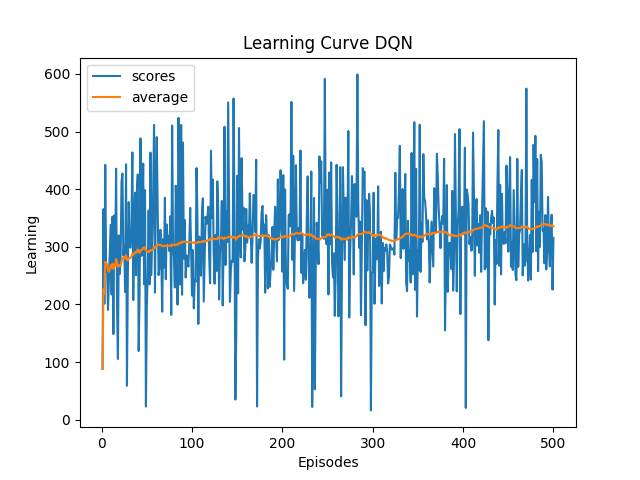
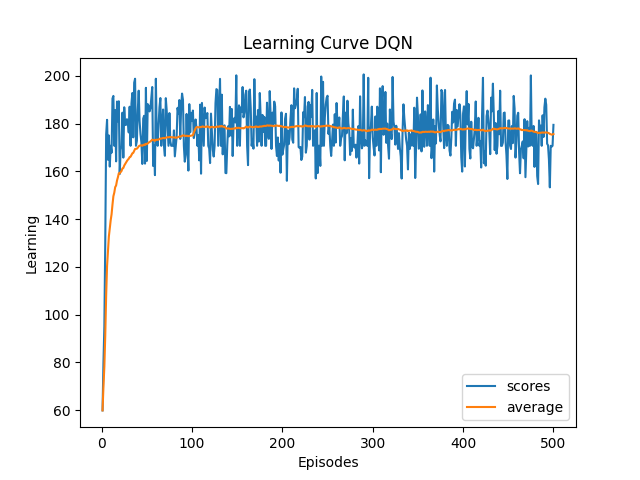
upgraded Agent with experience replay; scaled rewards and state through min-max normalisation

diff --git a/agent.py b/agent.py
@@ -4,8 +4,10 @@ import torch.nn.functional as F
 import torch.optim as optim
 import torch as T
 import numpy as np
-import environment
 import matplotlib.pyplot as plt
+
+import environment
+import random
 
 np.set_printoptions(precision=8, suppress=True)
 
@@ -15,20 +17,25 @@ N_ACTIONS = 3
 INPUT_DIMS = 6
 EPSILON = 1.00
 GAMMA = 0.09
-DECAY = 0.03
+DECAY = 0.001
 EPS_MIN = 0.01
+BUFFER_SIZE = 200
+BATCH_SIZE = 64
 
 """
 TODOs:
 - Agent Evaluation
--- Average over Multiple Episodes
+-- Average over Multiple Episodes 
+- Draw-Model Matrix Dimensions (exp. GPT Output) [DONE]
 
 - Store Agent Model
 - Scale state, reward, target values to work with Network
 - Implement Sigmoid Activation
 - Implement Experience Replay
+- Argparse to parameterize training and eval.
  
 """
+
 class DQN(nn.Module):
     def __init__(self, lr=LEARNING_RATE, n_actions=N_ACTIONS, input_dims=INPUT_DIMS):
         super(DQN, self).__init__()
@@ -49,6 +56,31 @@ class DQN(nn.Module):
 
         return actions
 
+# TODO: Consider 'game-over' state
+class ReplayBuffer:
+    def __init__(self, buffer_size=100):
+        self.buffer = []
+        self.buffer_size = buffer_size
+
+    def add(self, transition):
+        experience = transition
+        # MANAGE BUFFER AS A QUEUE FIFO
+        if len(self.buffer) >= self.buffer_size:
+            self.buffer.pop(0)
+
+        self.buffer.append(experience)
+    def sample(self, batch_size=64):
+        sampled_experiences = random.sample(self.buffer, batch_size)
+        states, actions, rewards, states_ = [], [], [], []
+
+        for exp in sampled_experiences:
+            state, action, reward, state_ = exp
+            states.append(state)
+            actions.append(action)
+            rewards.append(reward)
+            states_.append(state)
+
+        return states, actions, rewards, states_
 class Agent():
     def __init__(self,
                  input_dims=INPUT_DIMS,
@@ -57,11 +89,18 @@ class Agent():
                  gamma=GAMMA,
                  epsilon=EPSILON,
                  eps_dec=DECAY,
-                 eps_min=EPS_MIN):
+                 eps_min=EPS_MIN,
+                 buffer_size=BUFFER_SIZE,
+                 batch_size=BATCH_SIZE):
 
         self.lr = lr
         self.input_dims = input_dims
         self.n_actions = n_actions
+
+        self.buffer_size = buffer_size
+        self.batch_size = batch_size
+        self.exp_replay = ReplayBuffer(buffer_size=self.buffer_size)
+
         self.gamma = gamma
         self.epsilon = epsilon
         self.eps_dec = eps_dec
@@ -72,12 +111,13 @@ class Agent():
 
     def choose_action(self, observation):
         if np.random.random() > self.epsilon:
+            # EXPLORE
             state = T.tensor(observation, dtype=T.float).to(self.Q.device)
             actions = self.Q.forward(state)
             action = T.argmax(actions)
 
-
         else:
+            # EXPLOIT
             action = np.random.choice(self.action_space)
 
         return action
@@ -85,18 +125,21 @@ class Agent():
     def decrement_epsilon(self):
         self.epsilon = self.epsilon - self.eps_dec if self.epsilon > self.eps_min else self.eps_min
 
-    def learn(self, state, action, reward, state_):
-        # TODO (?) Clear Optimizer
+    def learn(self):
+        if len(self.exp_replay.buffer) < self.batch_size:
+            return
+
+        state, action, reward, state_ = self.exp_replay.sample(self.batch_size)
+
         self.Q.optimizer.zero_grad()
 
         states = T.tensor(state, dtype=T.float).to(self.Q.device)
-        actions = T.tensor(action).to(self.Q.device)
+        actions_taken = T.tensor(action).to(self.Q.device)
         rewards = T.tensor(reward).to(self.Q.device)
         states_ = T.tensor(state_, dtype=T.float).to(self.Q.device)
 
-        # NOTE: Absolute Q-Values, not Actions. Thus, no Argmax.
-        # TODO (?) [actions] controls correct batch size and shape
-        q_pred = self.Q.forward(states)[actions]
+        actions_tensor = T.tensor(actions_taken, dtype=T.long).to(self.Q.device)
+        q_pred = self.Q.forward(states).gather(1, actions_tensor.unsqueeze(1)).squeeze(1)
 
         q_next = self.Q.forward(states_).max()
 
@@ -134,16 +177,13 @@ if __name__ == "__main__":
     n_games = 500
     print(obs)
 
-    #print(obs.shape)
-    #print(env.action_spaces.n)
-
-    agent = Agent(lr=0.0001, input_dims=obs.shape, n_actions=env.action_spaces.n)
+    agent = Agent(lr=0.0001, input_dims=obs.shape, n_actions=env.action_spaces.n, buffer_size=500, batch_size=64)
     #print(agent.Q)
 
     for _ in range(n_games):
         score = 0
         steps = 0
-        max_steps = 1000
+        max_steps = 250
         done = False
         obs, reward, done, info = env.reset()
 
@@ -153,15 +193,21 @@ if __name__ == "__main__":
             action = agent.choose_action(obs)
             obs_, reward, done, info = env.step(action)
             score += reward
-            agent.learn(obs, action, reward, obs_)
+
+            # Increment Experience
+            agent.exp_replay.add((obs, action, reward, obs_))
+            agent.learn()
+
             obs = obs_
 
             # TODO: Improve Implementation
             if done:
-                if env.unmanaged_failure == False:
-                    reward += 100
-                else:
-                    over = True
+                over = True
+                # TODO: How to pass back Episode Success
+                # if env.unmanaged_failure == False:
+                #     reward += 100
+                # else:
+                #     over = True
 
         scores.append(score)
         avg_score = np.mean(scores)

diff --git a/environment.py b/environment.py
@@ -19,24 +19,41 @@ Consider:
 - Rendering 
 - Animated Plots
 - Pillow
+- Evaluating on EOL extension, age asset maintained on the Network, Cost-Benefit
 """
 
 failure_rates = {
-    "A": 0.0045,
-    "B": 0.0025,
-    "C": 0.0035
+    "A": 0.010,
+    "B": 0.008,
+    "C": 0.009
 }
 class TransmissionAsset(gym.Env):
-    def __init__(self):
+    def __init__(self,
+                 state_min=0,
+                 state_max=1,
+                 reward_min=-1,
+                 reward_max=1,
+                 family_type="A",
+                 failure_rates=failure_rates):
+
         super(TransmissionAsset, self).__init__()
 
         self.initial_age = 1
         self.unmanaged_failure = False
 
-        self.family_type = "A"
+        self.family_type = family_type
         self.family_type_one_hot = np.zeros(len(failure_rates))
 
         self.failure_rate = failure_rates[self.family_type]
+
+        self.C_fix = 0.5
+        self.C_replace = 0.8
+
+        # STATE-SCALING
+        self.state_min = state_min
+        self.state_max = state_max
+        self.reward_min = reward_min
+        self.reward_max = reward_max
 
         # ACTION SPACE
         self.action_spaces = spaces.Discrete(3)
@@ -50,10 +67,12 @@ class TransmissionAsset(gym.Env):
         })
 
         self.state = {}
+        # TODO: (?) Why Re-shape? Understand Re-shape
         self.state_vector = np.zeros(len(self.observation_space.keys())).reshape(-1, 1)
+
     def probability_failure(self, age):
         return float(1 - math.exp(-self.failure_rate * age))
-    def degrade(self, action=0):
+    def degrade(self, action):
         # CASE: a_t
         if action == 0:
             # DO NOTHING
@@ -61,6 +80,7 @@ class TransmissionAsset(gym.Env):
 
         elif action == 1:
             # FIX
+            # TODO: Parameterise
             age_reduction = self.state["age"] - np.random.uniform(10, 30)
             self.state["age"] = round(max(self.state["age"] - age_reduction, 1))
 
@@ -74,9 +94,9 @@ class TransmissionAsset(gym.Env):
         reward = self.probability_failure(age=self.state["age"])
 
         if action == 1:
-            reward -= 0.5 if self.state["probability_failure"] > 0.5 else 1
+            reward -= self.C_fix if self.state["probability_failure"] > 0.5 else 1
         elif action == 2:
-            reward -= 0.8 if self.state["probability_failure"] > 0.5 else 1
+            reward -= self.C_replace if self.state["probability_failure"] > 0.5 else 1
 
         return reward
 
@@ -85,6 +105,7 @@ class TransmissionAsset(gym.Env):
         self.family_type_one_hot[list(failure_rates.keys()).index(self.family_type)] = 1
         self.state["failure_rate"] = self.failure_rate
         self.state["probability_failure"] = self.probability_failure(self.initial_age)
+        self.state["family_type"] = self.family_type_one_hot
 
         self.state_vector = np.array([self.state["age"],
                                       self.state["failure_rate"],
@@ -96,12 +117,15 @@ class TransmissionAsset(gym.Env):
         reward = 0
         done = False
 
+        # MIN-MAX SCALING
+        self.state_vector = (self.state_vector - self.state_min) / (self.state_max - self.state_min)
+
         return self.state_vector, reward, done, {}
 
     def step(self, action):
         """
         Increment Age of Asset in as a Dynamic Process
-        Compute reward r_t, given a_t
+        Consider Backup Diagram: Compute reward r_t, given a_t
         Compute environment transition from s_t, s_t+1 returning updated state
         """
 
@@ -111,13 +135,15 @@ class TransmissionAsset(gym.Env):
         reward = self.compute_reward(action)
 
         done = False
-        if self.state["probability_failure"] >= 0.95:
-            #print("FAILED AT:", self.state["probability_failure"])
+
+        if self.state["probability_failure"] >= 0.91:
             print("UNMANAGED FAILURE")
             self.unmanaged_failure = True
             done = True
-            reward -= 100
+            penalty = reward - 100
+            reward += (penalty - self.reward_min) / (self.reward_max - self.reward_min)
 
+        # RANDOM FAILURE
         # elif np.random.randint(0,1) > 0.95:
         #     print("RANDOM FAILURE")
         #     done = True
@@ -129,23 +155,31 @@ class TransmissionAsset(gym.Env):
         self.state_vector = np.concatenate(
             (self.family_type_one_hot, [self.state["age"], self.state["failure_rate"], self.state["probability_failure"]]))
 
+        # MIN-MAX SCALING
+        self.state_vector = (self.state_vector - self.state_min) / (self.state_max - self.state_min)
+
+        # Reward scaling
+        reward = (reward - self.reward_min) / (self.reward_max - self.reward_min)
+
         return self.state_vector, reward, done, self.state
     def render(self):
+        # TODO: Render Tabluar Representation
         pass
 
-# env = TransmissionAsset()
-#
-# env.reset()
-# for _ in range(100):
-#     state, reward, done, info = env.step(action=0)
-#     if done:
-#         print("ASSET FAILED")
-#         print(info["probability_failure"])
-#         break
-#
-#     else:
-#         print(info)
-#         print(state)
-#         print(reward, done)
-#         print("")
+
+env = TransmissionAsset()
+
+env.reset()
+for _ in range(5):
+    state, reward, done, info = env.step(action=0)
+    if done:
+        print("ASSET FAILED")
+        print(info["probability_failure"])
+        break
+
+    else:
+        print(info)
+        print(state)
+        print(reward, done)
+        print("")
 
